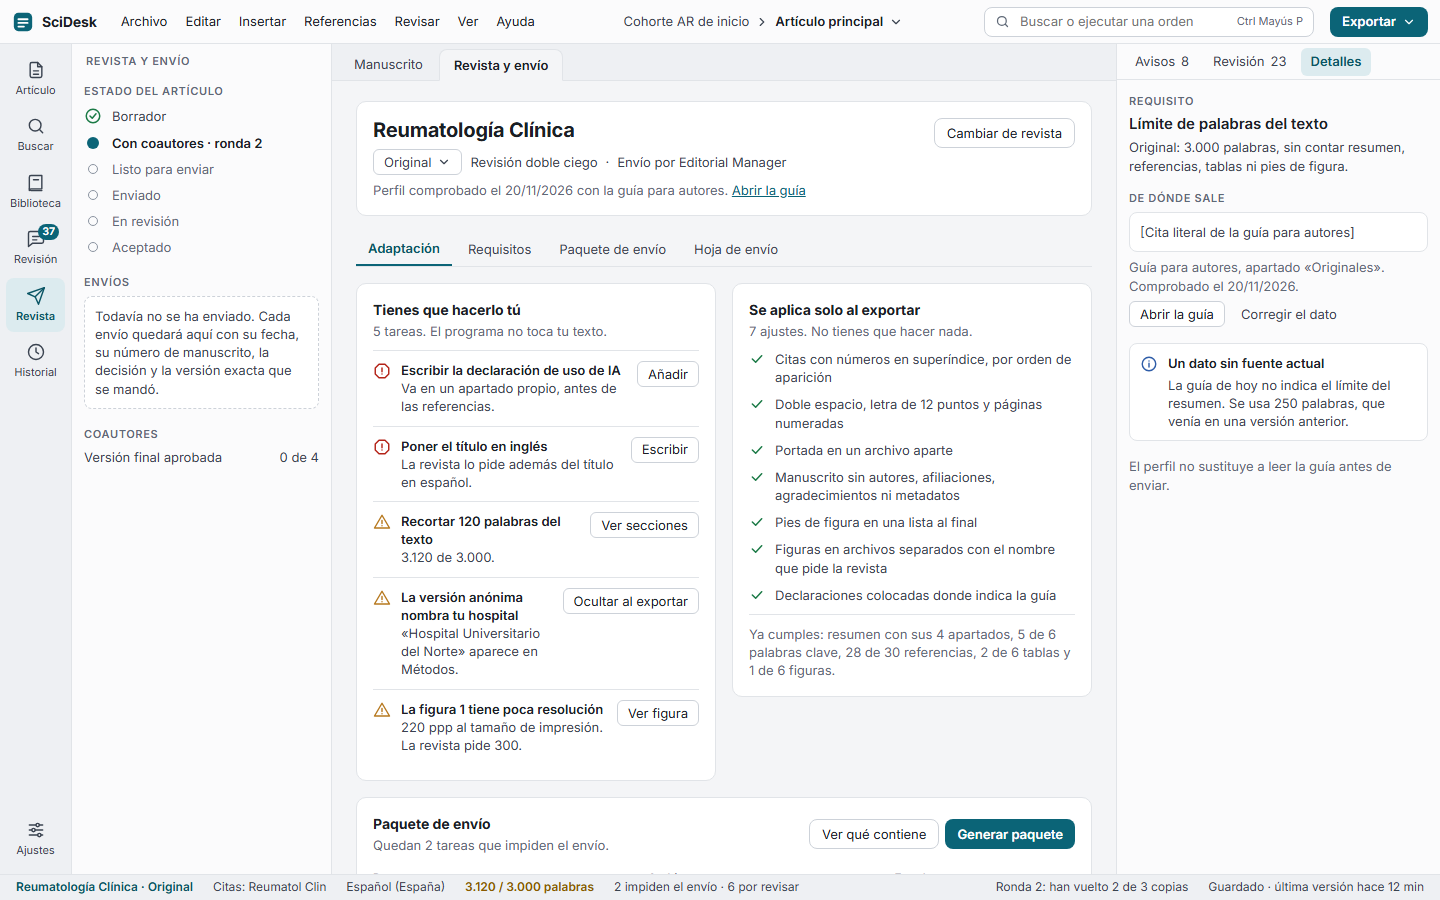
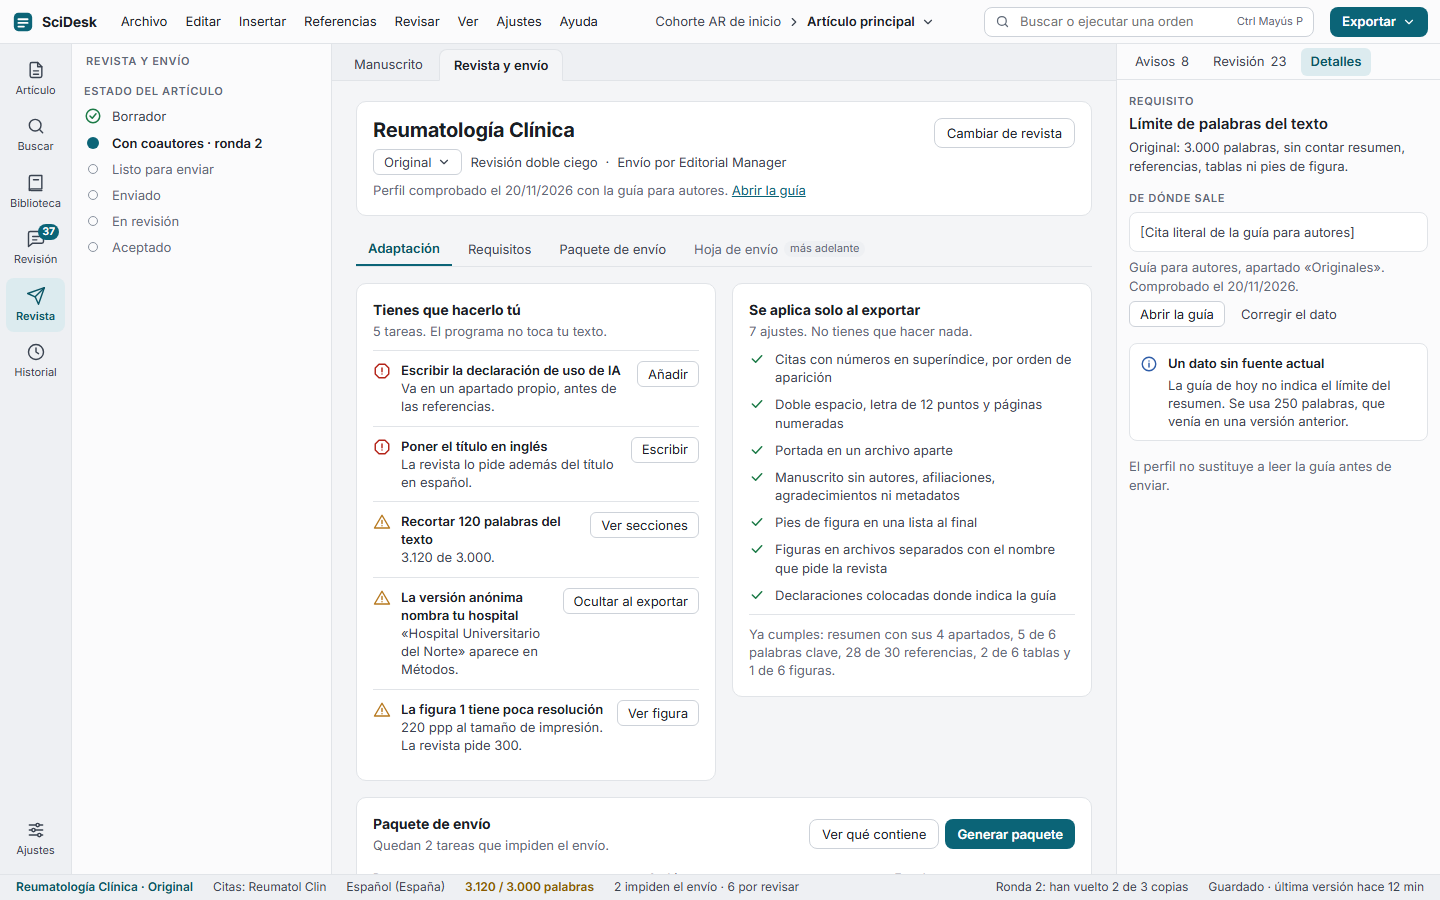
Interface proposal v0.2: D8 sheets and mockup adjusted to plan v0.5
The design canvas gets the three D8 sheets: start screen, the new-article
wizard (three interactive steps with what will be created alongside) and a
table in its own tab with the paste notice. The mockup drops clippings,
previous submissions and coauthors' final approval, marks the submission
sheet as later, moves the toolbar to full width with text colour and
highlight, and adds the Settings menu. Screenshots of sheets 1-8 redone.

diff --git a/docs/interfaz/diseno-interfaz.md b/docs/interfaz/diseno-interfaz.md
@@ -1,8 +1,12 @@
 # Diseño de la interfaz de SciDesk
 
-**Propuesta v0.1, 20 de noviembre de 2026. Las decisiones D1–D8 (sección 12) las tomó el usuario el 21 de noviembre de 2026** ([ficha 0043](../decisiones/0043-decisiones-de-interfaz.md)): todas como se proponían, con la cita en Ctrl+Mayús+C, «Es correcto» y «No aplica» para los avisos, y color del texto y resaltado en la cinta. La maqueta está pendiente de ajustarse a la v0.5 del plan (recortes, aprobación final y envíos anteriores fuera) y de las láminas de D8.
+**Propuesta v0.2, 22 de noviembre de 2026** (la v0.1 es del 20/11). **Las decisiones D1–D8 (sección 12) las tomó el usuario el 21 de noviembre de 2026** ([ficha 0043](../decisiones/0043-decisiones-de-interfaz.md)): todas como se proponían, con la cita en Ctrl+Mayús+C, «Es correcto» y «No aplica» para los avisos, y color del texto y resaltado en la cinta. **La v0.2 añade las láminas de D8** (inicio, asistente de nuevo artículo y tabla en su pestaña con el aviso de pegado) **y ajusta la maqueta a la v0.5 del plan**:
+- fuera los recortes, los envíos anteriores y la aprobación de la versión final por los coautores;
+- la hoja de envío queda marcada «más adelante»;
+- la cinta va a todo el ancho bajo la barra de título, con color del texto y resaltado;
+- «Ajustes» es un menú propio (decisiones del usuario del 22/11, ficha 0044).
 
-La maqueta está en un lienzo de diseño con siete láminas: [Interfaz de SciDesk](https://claude.ai/artifact/AysNFJETjAz7f1VYK3kr5x). Es privada, solo la ves tú. En el lienzo puedes comentar sobre cada lámina, cambiar textos y probar otros colores de acento en la lámina de estilo.
+La maqueta está en un lienzo de diseño con diez láminas: [Interfaz de SciDesk](https://claude.ai/artifact/AysNFJETjAz7f1VYK3kr5x). Es privada, solo la ves tú. En el lienzo puedes comentar sobre cada lámina, cambiar textos y probar otros colores de acento en la lámina de estilo.
 
 | Lámina | Qué enseña |
 |---|---|
@@ -13,10 +17,13 @@ La maqueta está en un lienzo de diseño con siete láminas: [Interfaz de SciDes
 | [5 · Autores y CRediT](https://claude.ai/artifact/AysNFJETjAz7f1VYK3kr5x#artboard-Autores) | Orden de firma, matriz CRediT y cómo queda en el artículo |
 | [Cita rápida](https://claude.ai/artifact/AysNFJETjAz7f1VYK3kr5x#artboard-Citar) | El buscador de citas |
 | [Estilo visual](https://claude.ai/artifact/AysNFJETjAz7f1VYK3kr5x#artboard-Estilo) | Colores, tipografía, elementos del texto y controles |
+| [6 · Inicio](https://claude.ai/artifact/AysNFJETjAz7f1VYK3kr5x#artboard-Inicio) | Pantalla de inicio: las tres formas de empezar y los proyectos recientes con el estado de cada artículo |
+| [7 · Nuevo artículo](https://claude.ai/artifact/AysNFJETjAz7f1VYK3kr5x#artboard-Asistente) | El asistente en tres pasos, con lo que se va a crear a la derecha; se puede recorrer en el modo de reproducción |
+| [8 · Tabla en su pestaña](https://claude.ai/artifact/AysNFJETjAz7f1VYK3kr5x#artboard-Tabla) | Una tabla recién pegada desde Word, con el aviso de lo conservado y lo descartado, la barra de tabla y sus propiedades en «Detalles» |
 
-Las láminas 1 a 5 están enlazadas entre sí por la barra de vistas, así que en el modo de reproducción del lienzo se puede pasar de una a otra.
+Las láminas 1 a 5 están enlazadas entre sí por la barra de vistas, así que en el modo de reproducción del lienzo se puede pasar de una a otra. También lo están las nuevas: «Nuevo artículo» en el inicio abre el asistente, «Crear el proyecto» lleva a la lámina 1, y la pestaña «Tabla 2» de la lámina 1 lleva a la 8.
 
-Hay una captura de cada lámina en [`capturas/`](capturas/), tomada el 21 de noviembre de 2026: [escribir](capturas/1-escribir.png), [fusión de revisiones](capturas/2-fusion-de-revisiones.png), [revista y envío](capturas/3-revista-y-envio.png), [biblioteca](capturas/4-biblioteca.png), [autores y CRediT](capturas/5-autores-y-credit.png), [cita rápida](capturas/cita-rapida.png) y [estilo visual](capturas/estilo-visual.png). Si el lienzo cambia, las capturas no se actualizan solas.
+Hay una captura de cada lámina en [`capturas/`](capturas/): [escribir](capturas/1-escribir.png), [fusión de revisiones](capturas/2-fusion-de-revisiones.png), [revista y envío](capturas/3-revista-y-envio.png), [biblioteca](capturas/4-biblioteca.png), [autores y CRediT](capturas/5-autores-y-credit.png), [inicio](capturas/6-inicio.png), [nuevo artículo](capturas/7-nuevo-articulo.png) (y su [paso de la revista](capturas/7-nuevo-articulo-revista.png)), [tabla en su pestaña](capturas/8-tabla-en-su-pestana.png), [cita rápida](capturas/cita-rapida.png) y [estilo visual](capturas/estilo-visual.png). Las de las láminas 1 a 8 son del 22 de noviembre de 2026; las de cita rápida y estilo visual, del 21. Se renderizan en local con Edge sin interfaz, a 1440 × 900. Si el lienzo cambia, las capturas no se actualizan solas.
 
 ## 1. Qué tomo del boceto y qué cambio
 
@@ -86,7 +93,7 @@ Abajo, separados, están Ajustes y Ayuda.
 - **Material suplementario**.
 - **Autores**.
 - **Documentos de envío**: carta, portada, contribuciones y declaraciones. Los que se generan solos lo indican.
-- **Recortes**: lo que has quitado y no quieres perder.
+- **Sin colocar en el texto**: tablas y figuras que se quitaron del texto y cuyo archivo se conserva (ficha 0045). Un clic las vuelve a poner donde está el cursor.
 
 Un botón en la cabecera cambia a la vista de archivos, que enseña la carpeta tal como está en el disco. Sirve para quien quiera verla y para depurar.
 
@@ -138,7 +145,7 @@ Cada elemento informa y es un botón:
 
 ### 4.1 Lienzo
 
-- Texto continuo, sin saltos de página, en una columna centrada de unos 70 caracteres de ancho sobre papel blanco.
+- Texto continuo, sin saltos de página, sobre una hoja A4 blanca con márgenes de 2,5 cm. La hoja tiene desde el principio el alto de una página y crece si el texto pasa de ella. Con el zoom «Ajustar al ancho» (por defecto) llena el ancho que dejan los paneles; también hay zoom fijo del 50 al 300 % en la barra de estado, en el menú Ver y con Ctrl + rueda (ficha 0046).
 - A la derecha de cada título de sección, sus palabras.
 - El bloque de autores y afiliaciones se ve en su sitio, pero no se edita ahí: indica que se genera solo y enlaza a Autores.
 - El resumen y las tablas se editan en su sitio dentro del manuscrito, aunque cada uno viva en su archivo.
@@ -162,8 +169,8 @@ Están todos en la lámina de estilo.
 
 - **Barra de herramientas**, una sola fila: deshacer y rehacer, estilo del párrafo, negrita, cursiva, subrayado, superíndice y subíndice, **color del texto y resaltado** (con los colores de Word, ficha 0043), y las inserciones (cita, referencia cruzada, tabla, figura, símbolo). Los botones de negrita y cursiva llevan N y K, como en Word en español, o B e I con el esquema internacional.
 - **Burbuja de selección.** Al seleccionar texto aparece junto a él una barra pequeña con formato, citar, comentar y cambiar el idioma.
-- **Menú contextual.** Lo que tiene sentido en cada sitio: en el texto, cita, referencia cruzada, comentario, pendiente y mover a recortes. En una celda, además, las órdenes de tabla.
-- **Barra de tabla.** Al entrar en una tabla aparece sobre ella una barra con filas, columnas, combinar celdas, alineación decimal y notas.
+- **Menú contextual.** Lo que tiene sentido en cada sitio: en el texto, cita, referencia cruzada, comentario y pendiente. En una celda, además, las órdenes de tabla y las notas.
+- **Barra de tabla** (lámina 8). En la pestaña de la tabla, una fila bajo las pestañas con filas, columnas, combinar y dividir, fila de encabezado, la alineación de la celda (con la decimal) y las notas: llamada a una nota nueva y nota general. En el manuscrito, las mismas órdenes van en el menú contextual de la celda.
 
 ### 4.4 Cita rápida
 
@@ -178,8 +185,15 @@ Lámina "Cita rápida". Es la acción más repetida, así que es la más cuidada
 ### 4.5 Tablas y figuras
 
 - Una tabla se ve en el manuscrito con su título, su cuerpo y sus notas. Las abreviaturas del pie se generan solas y lo indican.
-- Al pegar desde Word o Excel, un aviso breve resume lo conservado y lo descartado ("Se han conservado 3 celdas combinadas. Se han descartado los colores de fondo"), con un botón para deshacer.
-- En su propia pestaña, la tabla ocupa todo el ancho y el panel de detalles enseña sus propiedades.
+- Al pegar desde Word o Excel, un aviso breve resume lo conservado y lo descartado ("Se han conservado 3 celdas combinadas. Se han descartado los colores de fondo"), con un botón para deshacer (lámina 8).
+- En su propia pestaña (lámina 8), la tabla ocupa todo el ancho. Es la misma tabla que la del manuscrito: lo que se escribe allí se ve aquí y Ctrl+Z deshace en los dos sitios (ficha 0045). El panel de detalles enseña:
+  - dónde se cita;
+  - su tamaño y sus notas;
+  - el archivo;
+  - las celdas seleccionadas;
+  - los anchos de las columnas;
+  - qué pasa al exportar (encabezado repetido, tabla al final si lo pide la revista);
+  - sus avisos.
 - Una figura enseña la imagen, el pie y, si los hay, los avisos de resolución o formato.
 
 ### 4.6 Modos de escritura
@@ -220,12 +234,12 @@ Un botón en la fila de pestañas abre la vista previa paginada al lado del edit
 
 ### 5.4 Revista y envío (lámina 3)
 
-- **Panel izquierdo.** El estado del artículo en una lista de pasos, los envíos anteriores y la aprobación de la versión final por los coautores.
+- **Panel izquierdo.** El estado del artículo en una lista de pasos. Los envíos anteriores (bitácora de envíos) quedan para más adelante y la aprobación de la versión final por los coautores se descartó en la revisión de la v0.4.
 - **Cabecera.** Revista, tipo de artículo, tipo de revisión, sistema de envío, y cuándo y con qué fuente se comprobó el perfil.
 - **Adaptación.** Dos columnas, como pide el plan. "Tienes que hacerlo tú" es una lista de tareas con un botón que lleva al sitio. "Se aplica solo al exportar" es una lista de lo que el programa hará sin tocar tu texto.
 - **Requisitos.** El perfil completo, dato a dato.
 - **Paquete de envío.** Cada archivo que se va a generar, con su nombre y su estado.
-- **Hoja de envío.** Cada campo que pide el sistema de la revista, con un botón de copiar.
+- **Hoja de envío.** Cada campo que pide el sistema de la revista, con un botón de copiar. Prioridad baja: en la lámina aparece como «más adelante».
 - **Panel derecho.** Al elegir un requisito, enseña la cita literal de la guía de la que sale, la fecha en que se comprobó y un botón para corregir el dato. También avisa de los datos que la guía actual no da.
 
 ### 5.5 Respuesta a revisores
@@ -244,8 +258,15 @@ No tiene lámina todavía. Propuesta:
 
 ### 5.7 Inicio y nuevo artículo
 
-- **Inicio.** Proyectos recientes con el estado de cada artículo, y tres acciones: nuevo artículo, nuevo artículo a partir de un Word y abrir una carpeta.
-- **Nuevo artículo.** Un asistente de tres pasos: tipo de artículo e idiomas, revista (opcional, con buscador) y biblioteca. El último paso enseña la estructura que se va a crear.
+- **Inicio** (lámina 6).
+  - Tres formas de empezar: nuevo artículo, nuevo a partir de un Word y abrir una carpeta, con sus atajos del esquema elegido. Debajo, el proyecto de demostración.
+  - Los proyectos recientes: carpeta, cuándo se abrió y cada artículo con su estado («Con coautores · ronda 2», «Borrador», «Listo para enviar») y lo más útil de ese estado (copias que han vuelto, palabras frente al límite).
+  - Un proyecto cuya carpeta no se encuentra, algo habitual con carpetas sincronizadas, se muestra aparte con «Buscar la carpeta» y «Quitar de la lista».
+  - La barra de estado enseña el idioma de la interfaz y el esquema de atajos, que se cambian desde ahí.
+- **Nuevo artículo** (lámina 7). Un asistente de tres pasos, con lo que se va a crear siempre a la derecha (títulos y resúmenes por idioma, apartados del resumen estructurado si la revista lo pide, secciones del tipo de artículo, revista y biblioteca):
+  1. **Tipo e idiomas:** título provisional, carpeta (vacía), tipo de artículo (original, original breve, revisión sistemática, revisión narrativa, caso clínico, carta) e idioma del manuscrito, con la opción de llevar también título, resumen y palabras clave en el otro idioma.
+  2. **Revista**, opcional: buscador; las revistas con perfil lo dicen y enseñan lo que piden para ese tipo de artículo. Las que no lo tienen traen su estilo de cita, y lo demás con un paquete para un LLM. También se puede elegir «Sin revista por ahora».
+  3. **Biblioteca:** propia y vacía, importada de un archivo (RIS, NBIB, BibTeX o CSL-JSON) o vinculada a una colección de Zotero; y el estilo de cita, que por defecto es el de la revista.
 - **Primer arranque.** Idioma de la interfaz, esquema de atajos y áreas principales.
 
 ## 6. Cuando algo sale del equipo

diff --git a/docs/decisiones/0043-decisiones-de-interfaz.md b/docs/decisiones/0043-decisiones-de-interfaz.md
@@ -54,7 +54,7 @@
 
 ## Consecuencias
 - **En la vista del navegador**, Ctrl+Mayús+C abre el inspector de las herramientas de desarrollo de Chrome. En la aplicación instalada no pasa (no las lleva); en el navegador se usa el botón «Citar…».
-- **La maqueta** (lienzo privado) se actualiza con las láminas de D8, el ajuste a la v0.5 y la cinta con color y resaltado. Las capturas de `docs/interfaz/capturas/` se rehacen después.
+- **La maqueta** (lienzo privado) se actualiza con las láminas de D8, el ajuste a la v0.5 y la cinta con color y resaltado. Las capturas de `docs/interfaz/capturas/` se rehacen después. **Hecho el 22/11/2026** (propuesta v0.2 de la interfaz): láminas 6 · Inicio, 7 · Nuevo artículo y 8 · Tabla en su pestaña; fuera recortes, envíos anteriores y aprobación final; hoja de envío «más adelante»; cinta a todo el ancho y menú «Ajustes» (ficha 0044) en todas las láminas; capturas rehechas.
 - **El esqueleto de la ventana** (navegador por conceptos, pestañas, panel derecho con Avisos, Revisión y Detalles, menús, barra de estado y los dos esquemas de atajos) ya no espera a ninguna decisión.
 - **Falta:**
   - leer color y resaltado en las copias devueltas por los coautores (fase 2a, con los cambios de formato);
